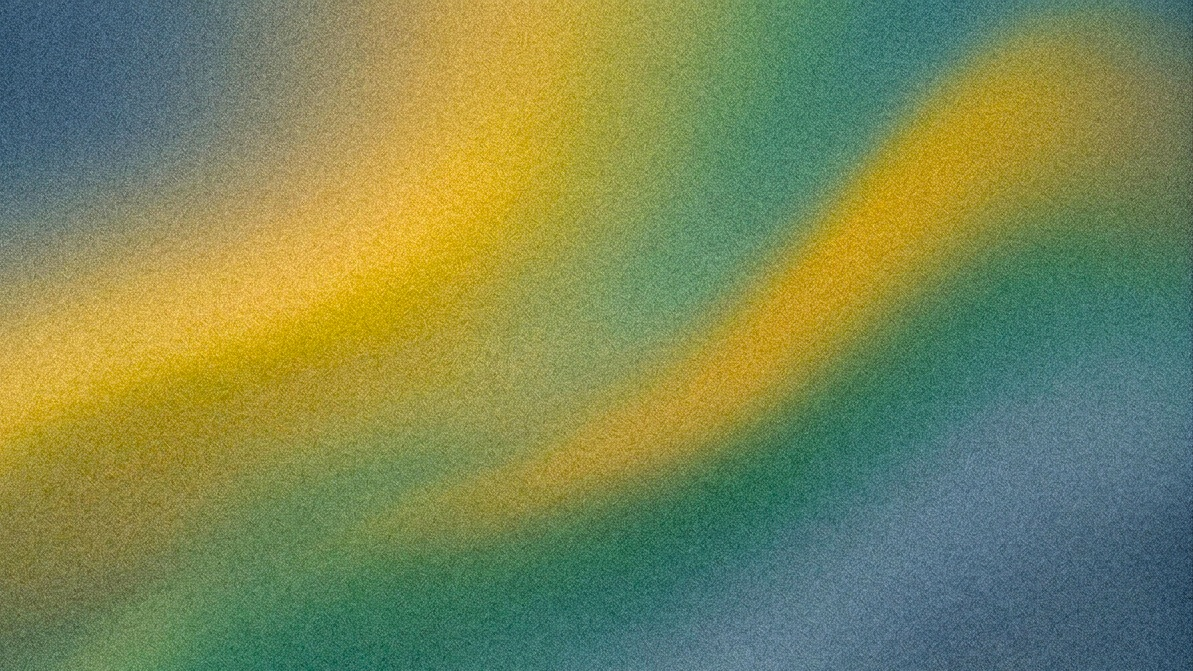
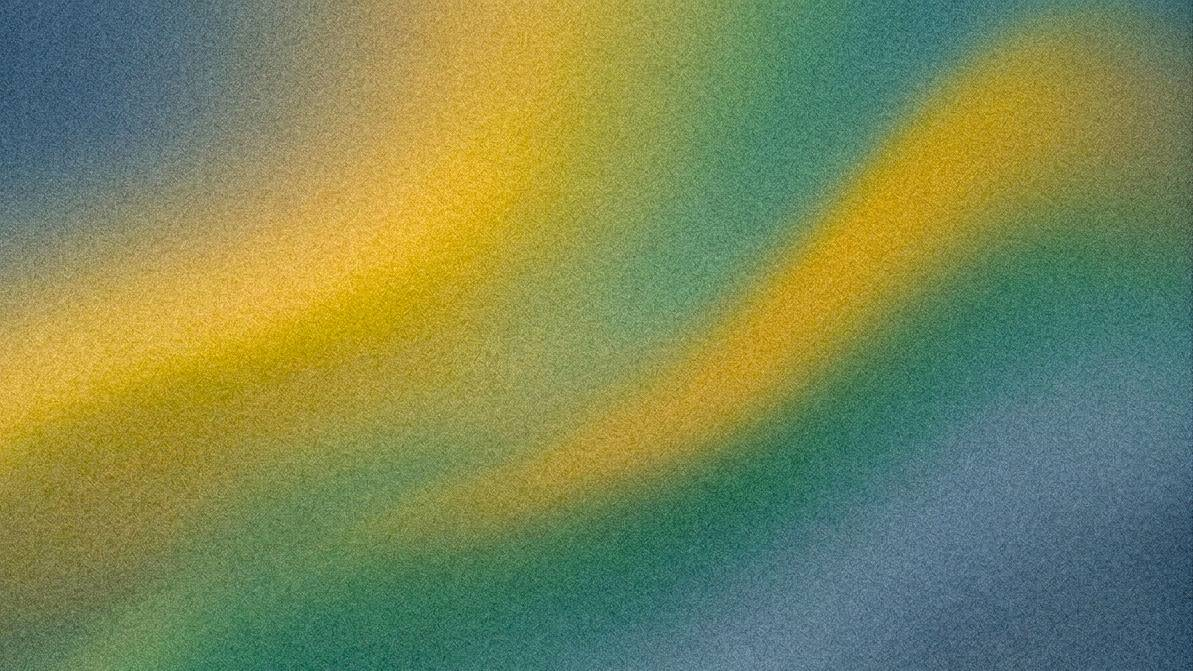
feat: seed new user data with 2 time widgets and a default filter to show only incomplete tasks

diff --git a/src/lib/onboarding.ts b/src/lib/onboarding.ts
@@ -1,0 +1,72 @@
+import type { Tracker } from '@shared/types';
+import { defaultKeyFor, type UserSettings } from '@/lib/query/settings';
+
+// ── First-run seeding ────────────────────────────────────────────────────────
+// A brand-new account otherwise lands on a completely empty app - no tasks, no
+// widgets, nothing to react to. These seeds give it something to show AND double
+// as onboarding: the two time widgets demonstrate what a tracker is and that the
+// primary/secondary readouts are configurable, without any tour UI.
+//
+// Seeded exactly once, from the same first-run branch that creates the "Personal"
+// workspace (see app-data.tsx). That branch only fires when the account has NO
+// workspace at all, so deleting these widgets later never brings them back.
+
+// The color the Add Tracker modal starts on, so a seeded widget is indistinguishable
+// from one the user creates by hand and immediately accepts.
+const SEED_COLOR = '#c6dabe';
+const SEED_PRECISION = 2;
+
+const newId = () => Math.random().toString(36).substr(2, 9);
+
+export function buildSeedTrackers(): Tracker[] {
+  const createdAt = Date.now();
+  return [
+    {
+      id: newId(),
+      name: 'Day',
+      type: 'day',
+      color: SEED_COLOR,
+      precision: SEED_PRECISION,
+      displayMode: 'time_remaining',
+      secondaryDisplayMode: 'percent_elapsed',
+      createdAt,
+    },
+    {
+      id: newId(),
+      name: 'Year',
+      type: 'year',
+      color: SEED_COLOR,
+      precision: SEED_PRECISION,
+      displayMode: 'percent_elapsed',
+      secondaryDisplayMode: 'time_remaining',
+      createdAt,
+    },
+  ];
+}
+
+// ── Default view config ──────────────────────────────────────────────────────
+// Every planner view (including collections created later, and views never
+// visited) falls back to the workspace's default record when it has no config of
+// its own - the same slot the toolbar's "Set for all" writes. Seeding it is
+// therefore all it takes to give the whole planner a starting filter.
+//
+// That filter is "Status is not Completed", which is what makes finished work
+// disappear from the planner now that auto-archive is off by default. Unlike
+// auto-archive it is a read-time rule, so it behaves identically whether the task
+// was ticked off in the Planner, the daily list, or the calendar.
+export function buildSeedViewsConfig(workspaceId: string): NonNullable<UserSettings['hubViews']> {
+  return {
+    [defaultKeyFor(workspaceId)]: {
+      // Shape must match the planner's FilterRule. `value` is matched against the
+      // field's DISPLAY value (see matchesFilter), i.e. the STATUS_OPTIONS label
+      // rather than the stored 'completed' - the comparison is case-insensitive.
+      filters: [{ id: newId(), field: 'status', condition: 'is_not', value: 'Completed' }],
+      filterMatch: 'and',
+    },
+    // The Archived view is exempt: archived tasks are usually completed ones, so
+    // the default filter would render that view permanently empty. An explicit
+    // per-view record shadows the workspace default. (Using "Set for all" on
+    // filters later clears this, by design - that action means all.)
+    [`${workspaceId}:archived`]: { filters: [], filterMatch: 'and' },
+  };
+}

diff --git a/src/lib/app-data.tsx b/src/lib/app-data.tsx
@@ -24,6 +24,7 @@ import { useSettings, useUpdateSettings } from '@/lib/query/settings';
 import { applyTheme, type ThemeMode } from '@/theme/applyTheme';
 import { DEFAULT_THEME_ID } from '@/theme/themes';
 import { DEFAULT_COLLECTION_SLOT } from '@/theme/collectionColor';
+import { buildSeedTrackers, buildSeedViewsConfig } from '@/lib/onboarding';
 
 
 // Flat list → in-memory bucket view, grouped by dueDate (undated → UNDATED).
@@ -146,6 +147,9 @@ function useProvideAppData() {
   const setActiveWorkspaceId = (id: string) => updateSettings({ activeWorkspaceId: id });
 
   // First-run seeding + keep activeWorkspaceId valid once data has loaded.
+  // "No workspace at all" is the one signal that means a genuinely new account:
+  // every other collection is user-deletable, so seeding off an empty todo or
+  // tracker list would resurrect content the user threw away.
   const seededRef = useRef(false);
   useEffect(() => {
     if (!isAuthenticated) { seededRef.current = false; return; }
@@ -156,19 +160,32 @@ function useProvideAppData() {
     // duplicate empty "Personal" workspace every time. isSuccess is only true once
     // the server actually returned a list (and stays true with retained data
     // across background refetches), so we never seed off an unconfirmed empty.
-    if (!workspacesQuery.isSuccess || !settingsQuery.isSuccess) return;
+    // The trackers query is gated on too (not just used) so the seed below can
+    // trust `trackers`: a still-loading list also reads as `[]`, and seeding off
+    // that would duplicate the widgets on an account whose workspace create failed.
+    if (!workspacesQuery.isSuccess || !settingsQuery.isSuccess || !trackersQuery.isSuccess) return;
     if (workspaces.length === 0) {
       if (seededRef.current) return;
       seededRef.current = true;
       const id = Math.random().toString(36).substr(2, 9);
       createWorkspace.mutate({ id, name: 'Personal' });
       setActiveWorkspaceId(id);
+      // Onboarding content for a brand-new account (see @/lib/onboarding): the
+      // starter time widgets, so the app isn't blank on first sign-in.
+      if (trackers.length === 0) for (const t of buildSeedTrackers()) createTracker.mutate(t);
+      // ...and the planner's default view config, which is what keeps completed
+      // tasks out of every view (and every collection made later) now that
+      // auto-archive is off. Merged over whatever is stored: a first-run account
+      // has no hubViews, but never clobber another workspace's record.
+      updateSettings({
+        hubViews: { ...(settings?.hubViews ?? {}), ...buildSeedViewsConfig(id) },
+      });
       return;
     }
     if (!workspaces.some(w => w.id === activeWorkspaceId)) {
       setActiveWorkspaceId(workspaces[0].id);
     }
-  }, [isAuthenticated, workspacesQuery.isSuccess, settingsQuery.isSuccess, workspaces, activeWorkspaceId]);
+  }, [isAuthenticated, workspacesQuery.isSuccess, settingsQuery.isSuccess, trackersQuery.isSuccess, workspaces, trackers, activeWorkspaceId]);
 
   const addWorkspace = (): string => {
     const id = Math.random().toString(36).substr(2, 9);

diff --git a/src/lib/query/settings.ts b/src/lib/query/settings.ts
@@ -25,6 +25,20 @@ export interface HubLayout {
   sidebarCollapsed?: string[]; // sidebar collection-tree collapse state
 }
 
+// ── hubViews keys ────────────────────────────────────────────────────────────
+// `hubViews` is keyed `${workspaceId}:${viewId}`, with one reserved view id
+// holding that workspace's DEFAULTS - what a view resolves to when it has no
+// record of its own, which is how a setting reaches views never visited and
+// collections not yet created. Written by the planner's "Set for all" and by the
+// first-run seed in @/lib/onboarding. Real view ids are a pseudo-view name or a
+// collection id, and every id in the app is 9 chars of [0-9a-z], never an
+// underscore, so the reserved id can't collide.
+//
+// These live here, with the blob they key into, so the planner (which re-exports
+// them from model/viewConfigStore) and the seeder agree by construction.
+export const DEFAULT_VIEW_ID = '__default__';
+export const defaultKeyFor = (workspaceId: string) => `${workspaceId}:${DEFAULT_VIEW_ID}`;
+
 export interface UserSettings {
   theme?: Theme;            // user's custom accent colors (accent1/accent2)
   themeId?: string;         // selected color theme id (see src/theme/themes.ts; default 'classic')

diff --git a/src/features/planner/model/viewConfigStore.ts b/src/features/planner/model/viewConfigStore.ts
@@ -1,17 +1,16 @@
 import { MENU_SLICES, ToolbarMenuKey, ColKey } from '@/features/planner/types';
+import { defaultKeyFor } from '@/lib/query/settings';
 
 // Pure transformations over the `hubViews` blob (the DB-synced record of every
 // planner view's config, keyed `${workspaceId}:${viewId}`). Kept out of
 // useHubViewConfig so the part that rewrites EVERY stored record can be reasoned
 // about - and tested - without React or the settings pipeline.
 
-// The reserved view-id slot holding a workspace's "Set for all" defaults. Real
-// view ids are either a pseudo-view name or a collection id, and every id in the
-// app is Math.random().toString(36).substr(2, 9) - 9 chars of [0-9a-z], never an
-// underscore - so this can't collide.
-export const DEFAULT_VIEW_ID = '__default__';
-
-export const defaultKeyFor = (workspaceId: string) => `${workspaceId}:${DEFAULT_VIEW_ID}`;
+// The reserved view-id slot holding a workspace's defaults - written by "Set for
+// all" here, and by the first-run seed in @/lib/onboarding. Defined with the
+// settings blob it keys into (see @/lib/query/settings) and re-exported here so
+// planner code keeps importing it from its own model layer.
+export { DEFAULT_VIEW_ID, defaultKeyFor } from '@/lib/query/settings';
 
 export type ViewsConfig = Record<string, any>;
 

diff --git a/src/features/planner/types.ts b/src/features/planner/types.ts
@@ -153,7 +153,14 @@ export interface SectionsConfig {
 }
 
 export const DEFAULT_SECTIONS_CONFIG: SectionsConfig = {
-  autoArchive: true,
+  // Off by default: it only fires on the Planner's own checkbox (see
+  // handleToggleTodo), so completing the same task from the daily list or the
+  // calendar left it un-archived - the same task behaving two different ways
+  // depending on where it was ticked. Hiding completed tasks is now the job of
+  // the seeded "Status is not Completed" view filter (@/lib/onboarding), which
+  // works no matter where the task was completed. Anyone who wants the archiving
+  // behaviour can still switch it on per view.
+  autoArchive: false,
   showLeafTasks: 'top',
   hideEmptyCollections: false,
   hideSubcollections: false,
